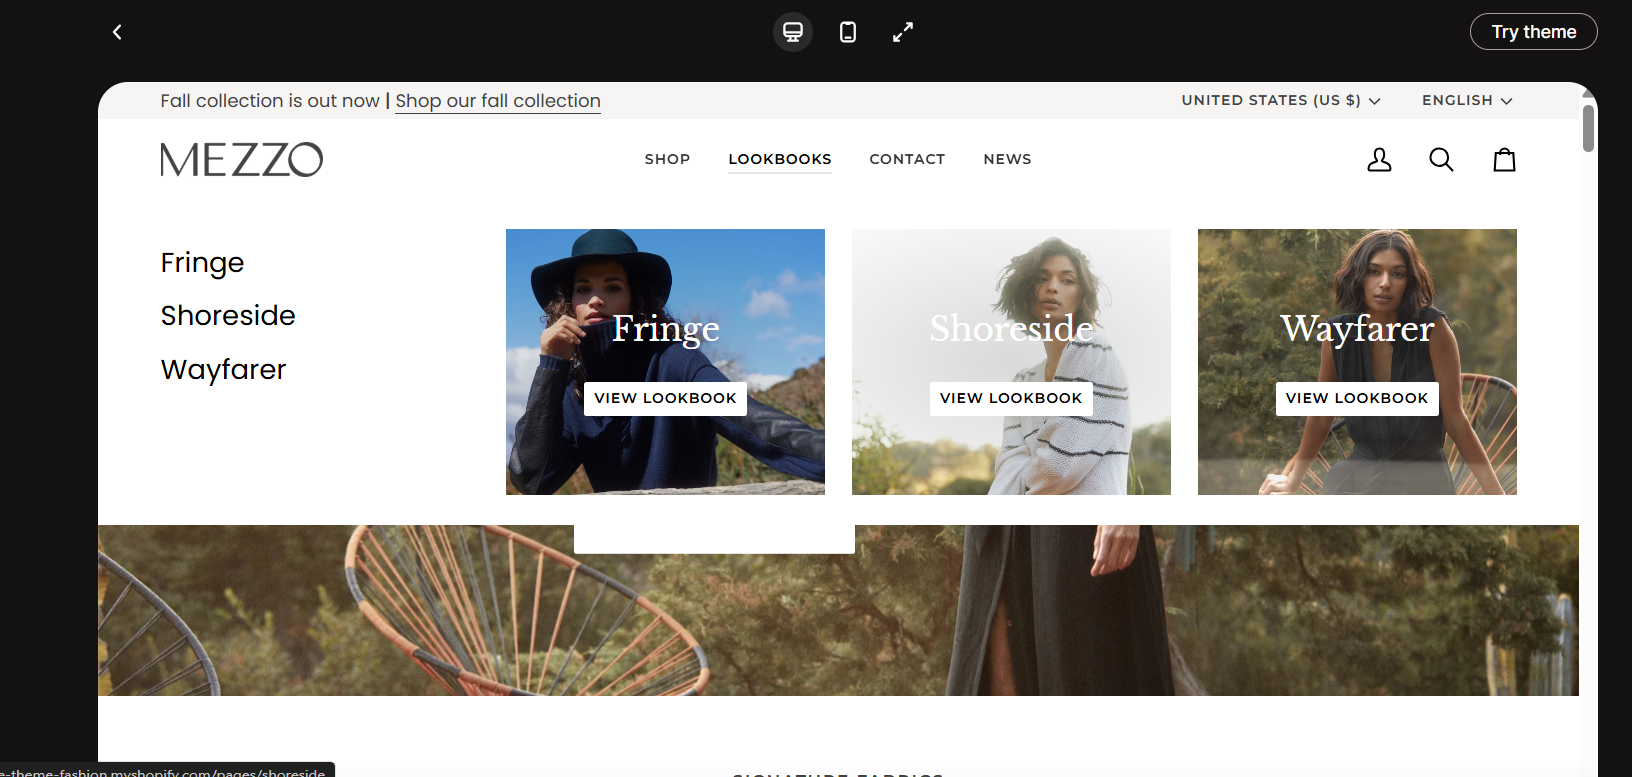
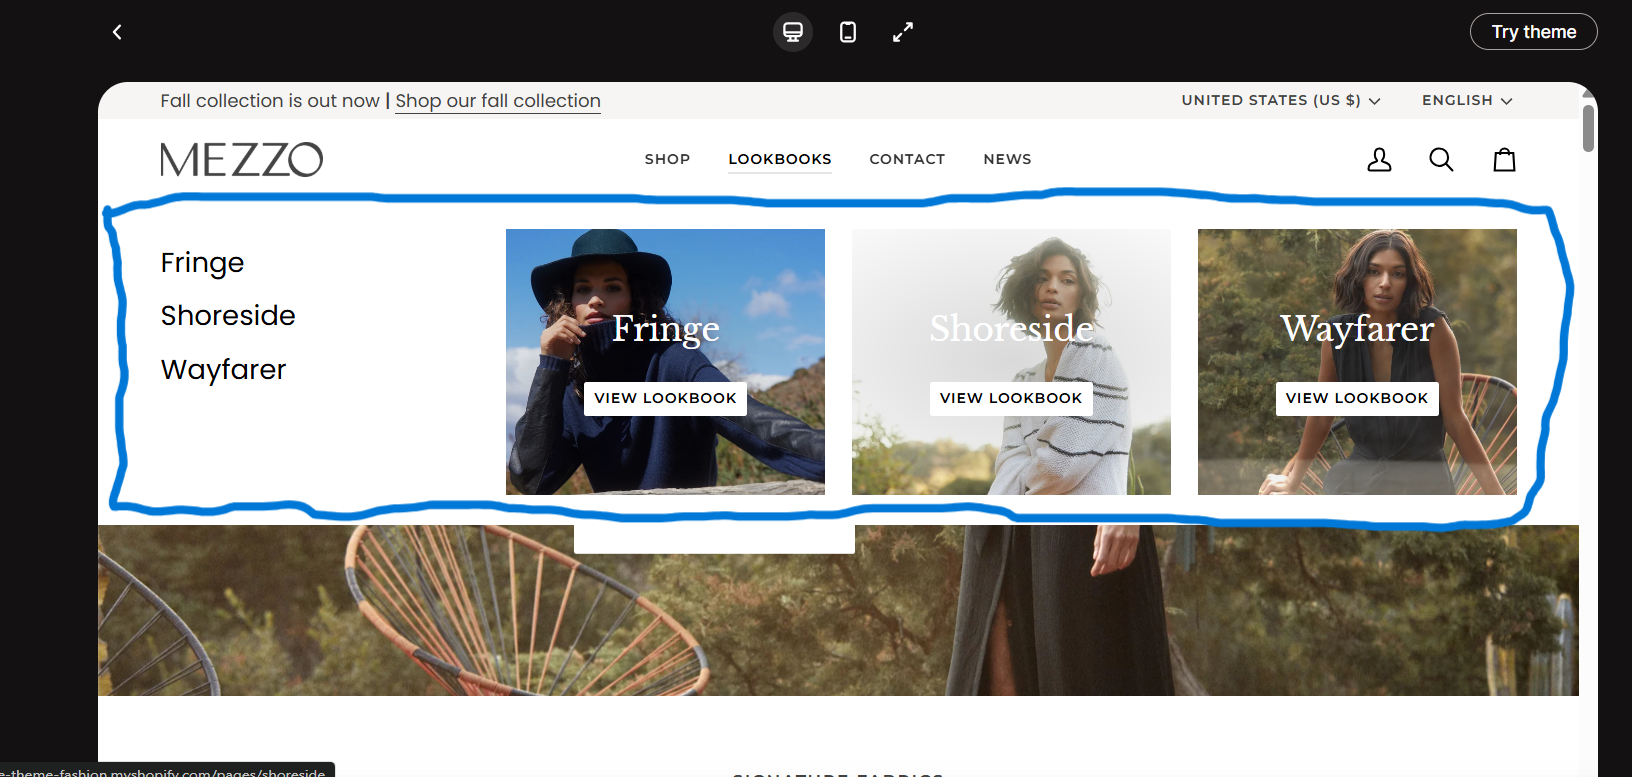
new

Changed region(s): [[0.0625, 0.2162, 0.9688, 0.7104]]

diff --git a/assets/theme.css b/assets/theme.css
@@ -846,7 +846,7 @@ textarea.field__input {
     max-height: calc(100dvh - 92px);
     overflow-y: auto;
     overscroll-behavior: contain;
-    padding-block: clamp(28px, 3vw, 46px);
+    padding-block: var(--mega-panel-padding, 32px);
     border-top: 1px solid var(--color-border);
     border-bottom: 1px solid var(--color-border);
     background: var(--color-surface);
@@ -882,7 +882,7 @@ textarea.field__input {
 
   .site-header__mega-columns {
     display: grid;
-    grid-template-columns: repeat(auto-fit, minmax(140px, 1fr));
+    grid-template-columns: repeat(var(--mega-menu-columns, 3), minmax(120px, 1fr));
     gap: 28px clamp(22px, 3vw, 52px);
   }
 
@@ -892,16 +892,17 @@ textarea.field__input {
 
   .site-header__mega-menu--list .site-header__mega-columns {
     grid-template-columns: minmax(0, 1fr);
-    gap: 10px;
+    gap: 18px;
   }
 
   .site-header__mega-menu--list .site-header__mega-heading {
     border-bottom: 0;
     padding: 0;
-    font-family: var(--font-heading);
-    font-size: 1.08rem;
-    letter-spacing: -0.02em;
-    line-height: 1.2;
+    font-family: var(--font-body);
+    font-size: clamp(1.2rem, 1.65vw, 1.65rem);
+    font-weight: 500;
+    letter-spacing: -0.03em;
+    line-height: 1.15;
     text-transform: none;
   }
 
@@ -956,7 +957,7 @@ textarea.field__input {
   .site-header__mega-promos {
     display: grid;
     grid-template-columns: repeat(var(--mega-promo-count), minmax(0, 1fr));
-    gap: clamp(12px, 1.5vw, 22px);
+    gap: var(--mega-promo-gap, 20px);
   }
 
   .site-header__mega-promo {
@@ -995,7 +996,7 @@ textarea.field__input {
     position: absolute;
     inset: 0;
     z-index: 1;
-    background: linear-gradient(180deg, rgba(0, 0, 0, 0.04), rgba(0, 0, 0, 0.48));
+    background: rgba(0, 0, 0, var(--mega-overlay-opacity, 0.25));
   }
 
   .site-header__mega-promo-content {
@@ -1014,6 +1015,18 @@ textarea.field__input {
     font-family: var(--font-heading);
     font-size: clamp(1.35rem, 2vw, 2.25rem);
     line-height: 0.96;
+  }
+
+  .site-header__mega-menu--text-bottom .site-header__mega-promo-content {
+    align-content: end;
+  }
+
+  .site-header__mega-menu--heading-small .site-header__mega-promo-content strong {
+    font-size: clamp(1.1rem, 1.5vw, 1.65rem);
+  }
+
+  .site-header__mega-menu--heading-large .site-header__mega-promo-content strong {
+    font-size: clamp(1.7rem, 2.5vw, 2.8rem);
   }
 
   .site-header__mega-promo-content > span {
